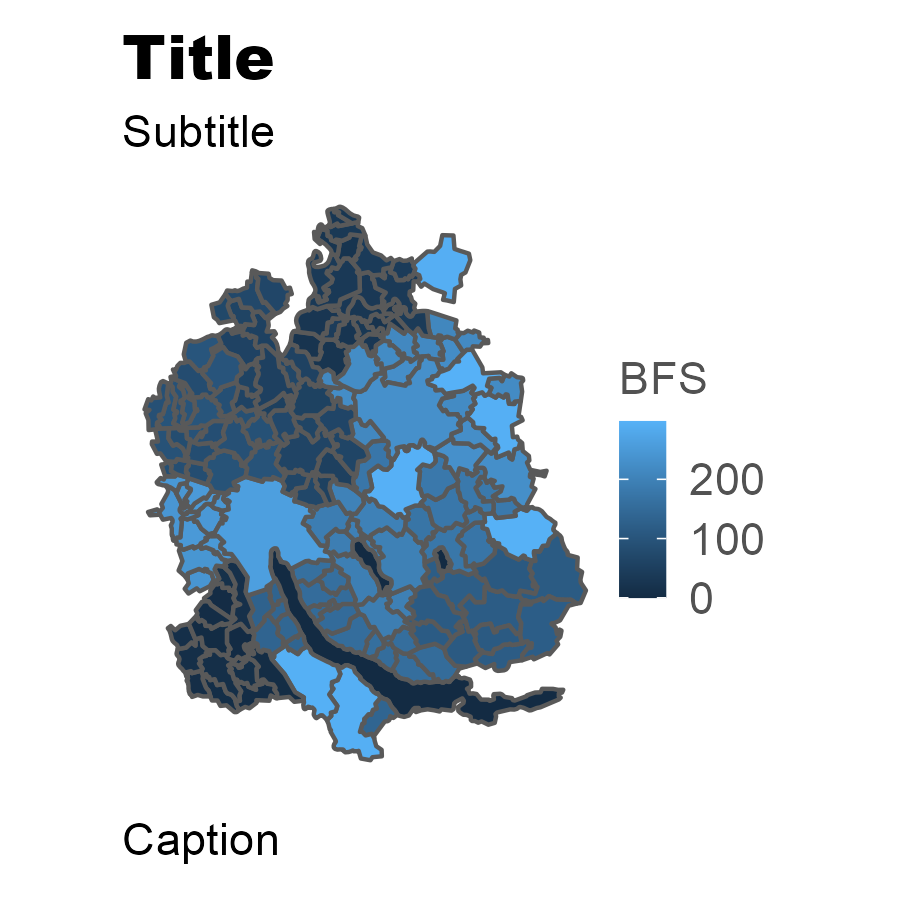
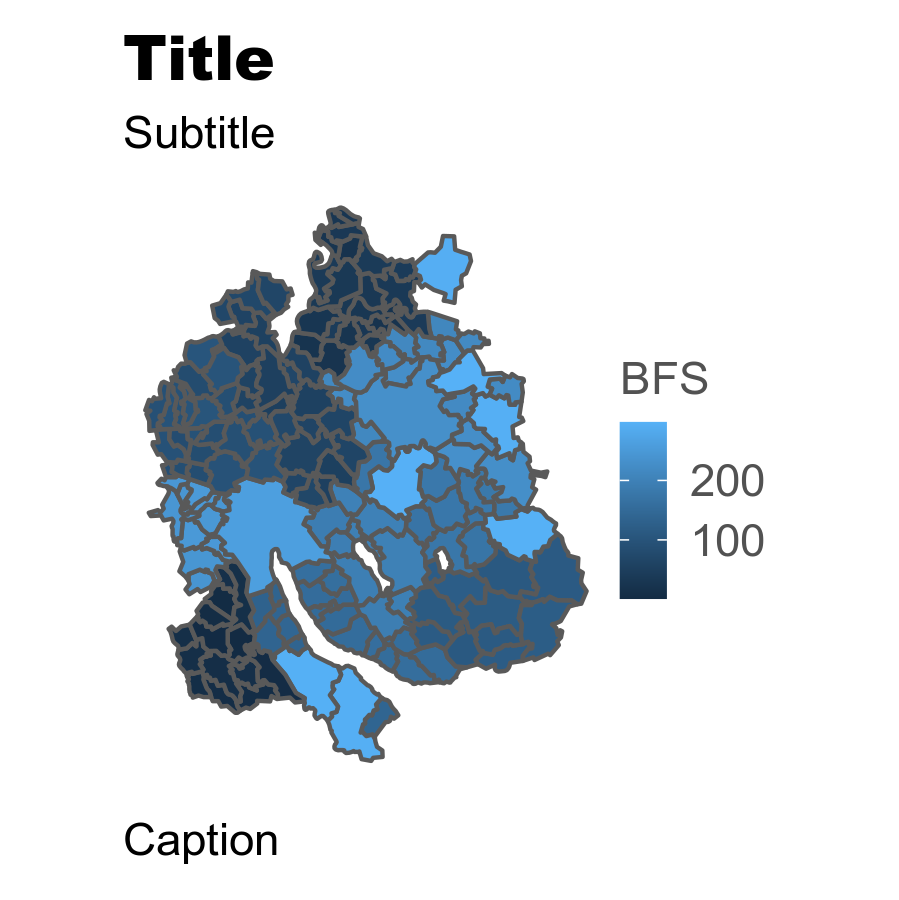
various changes

diff --git a/NEWS.md b/NEWS.md
@@ -1,3 +1,10 @@
+# statR 2.1.2
+
+* implemented new color palettes
+* removes old and not accessible palettes
+* the documentation has been update 
+  * bugs in the documentation fixed
+
 # statR 2.1.1
 
 * fix `datasetXLSX()` which generated broken Links in the index-sheet
